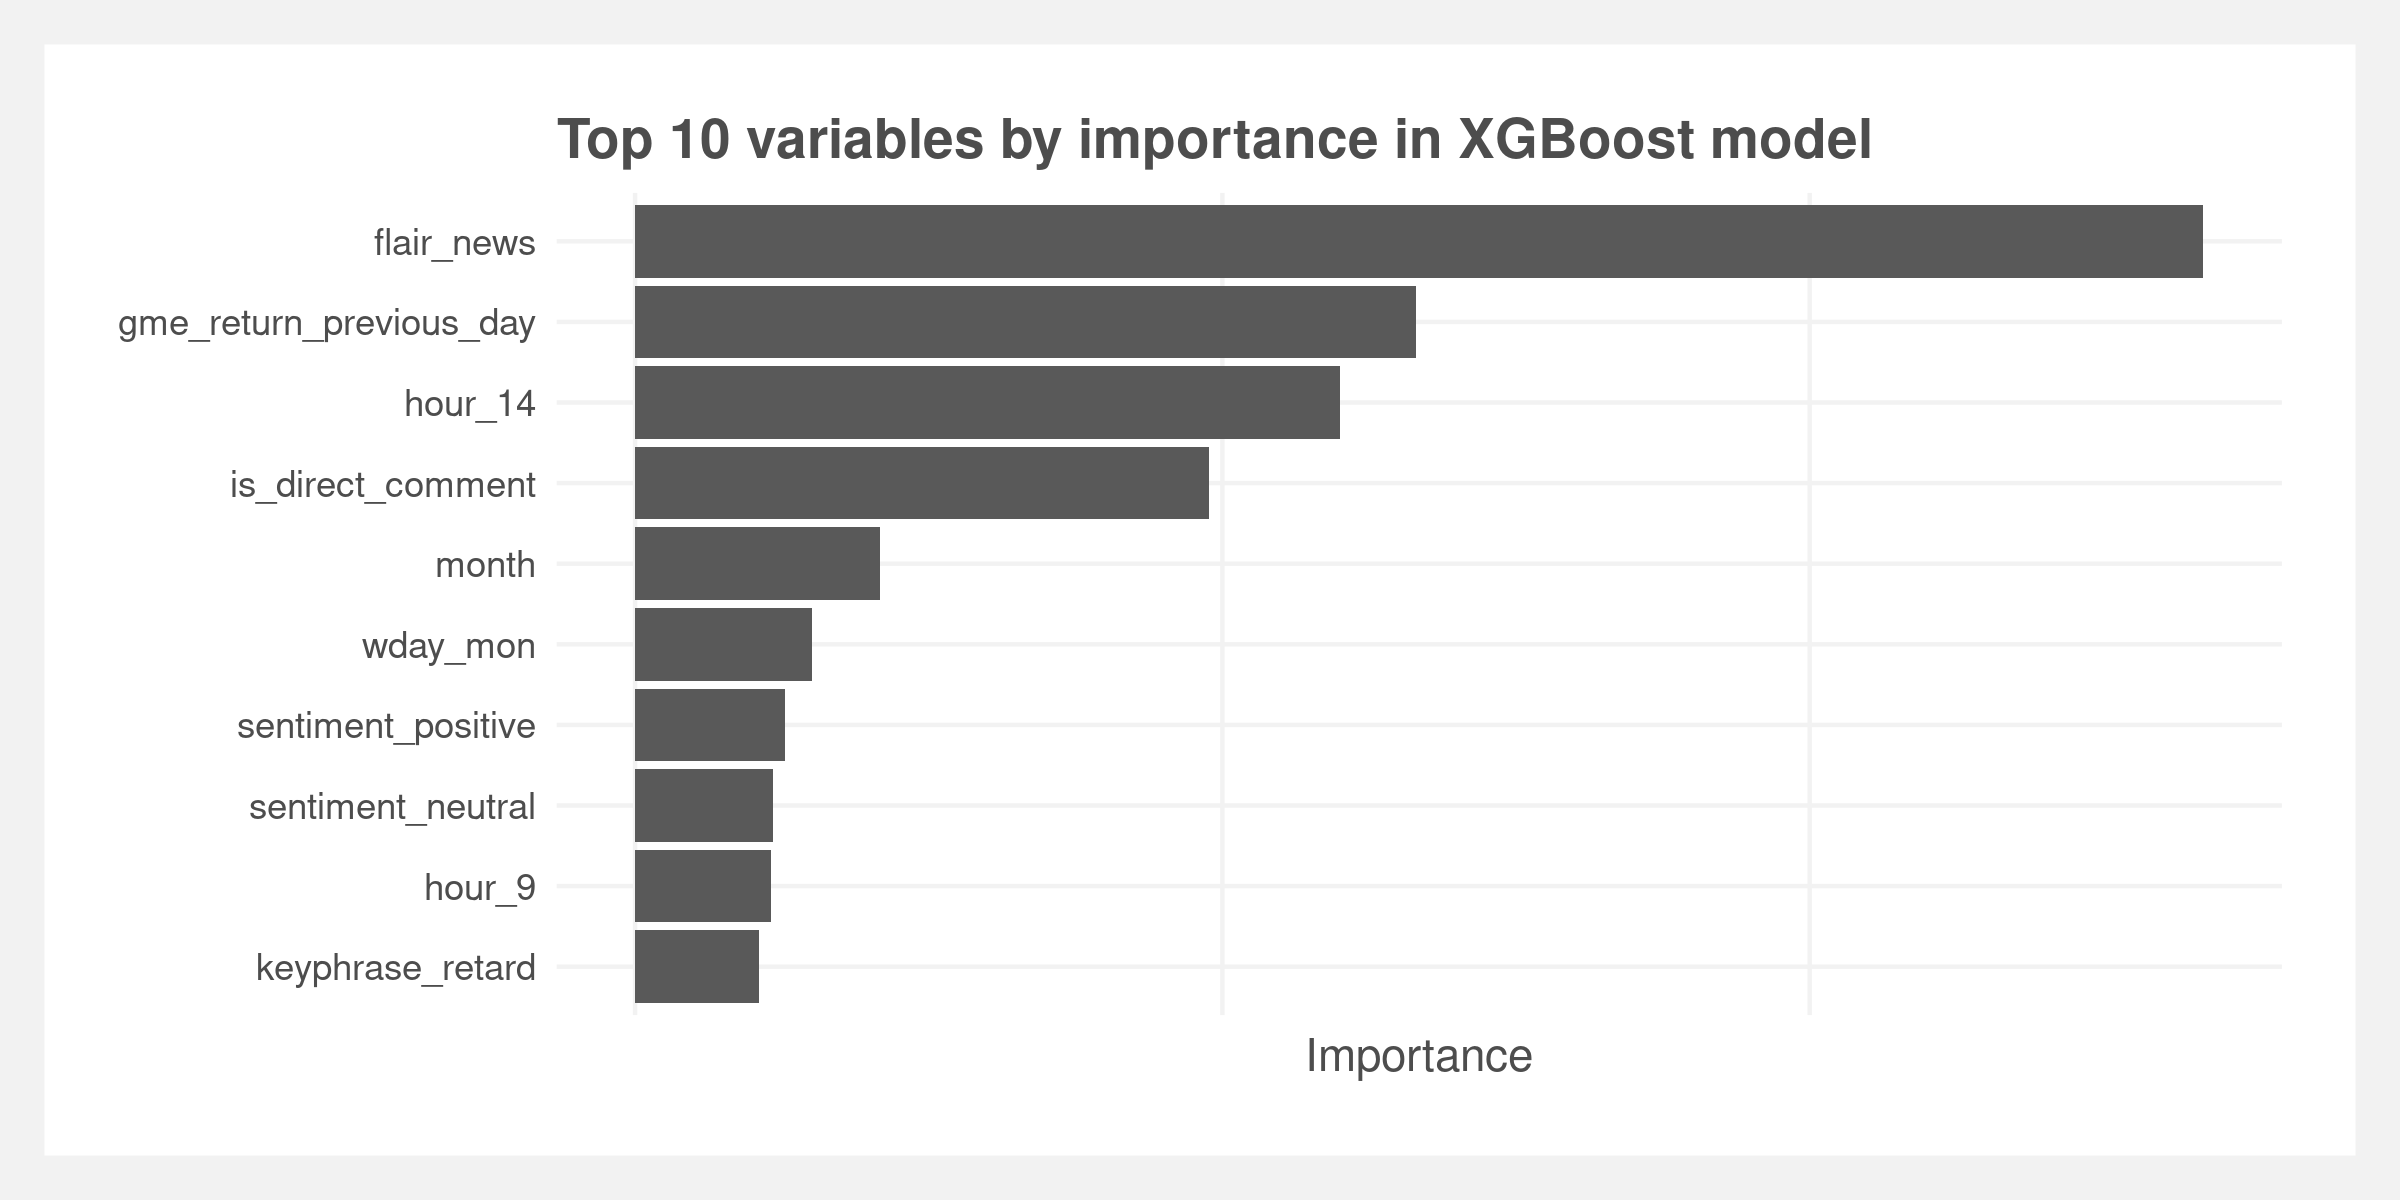
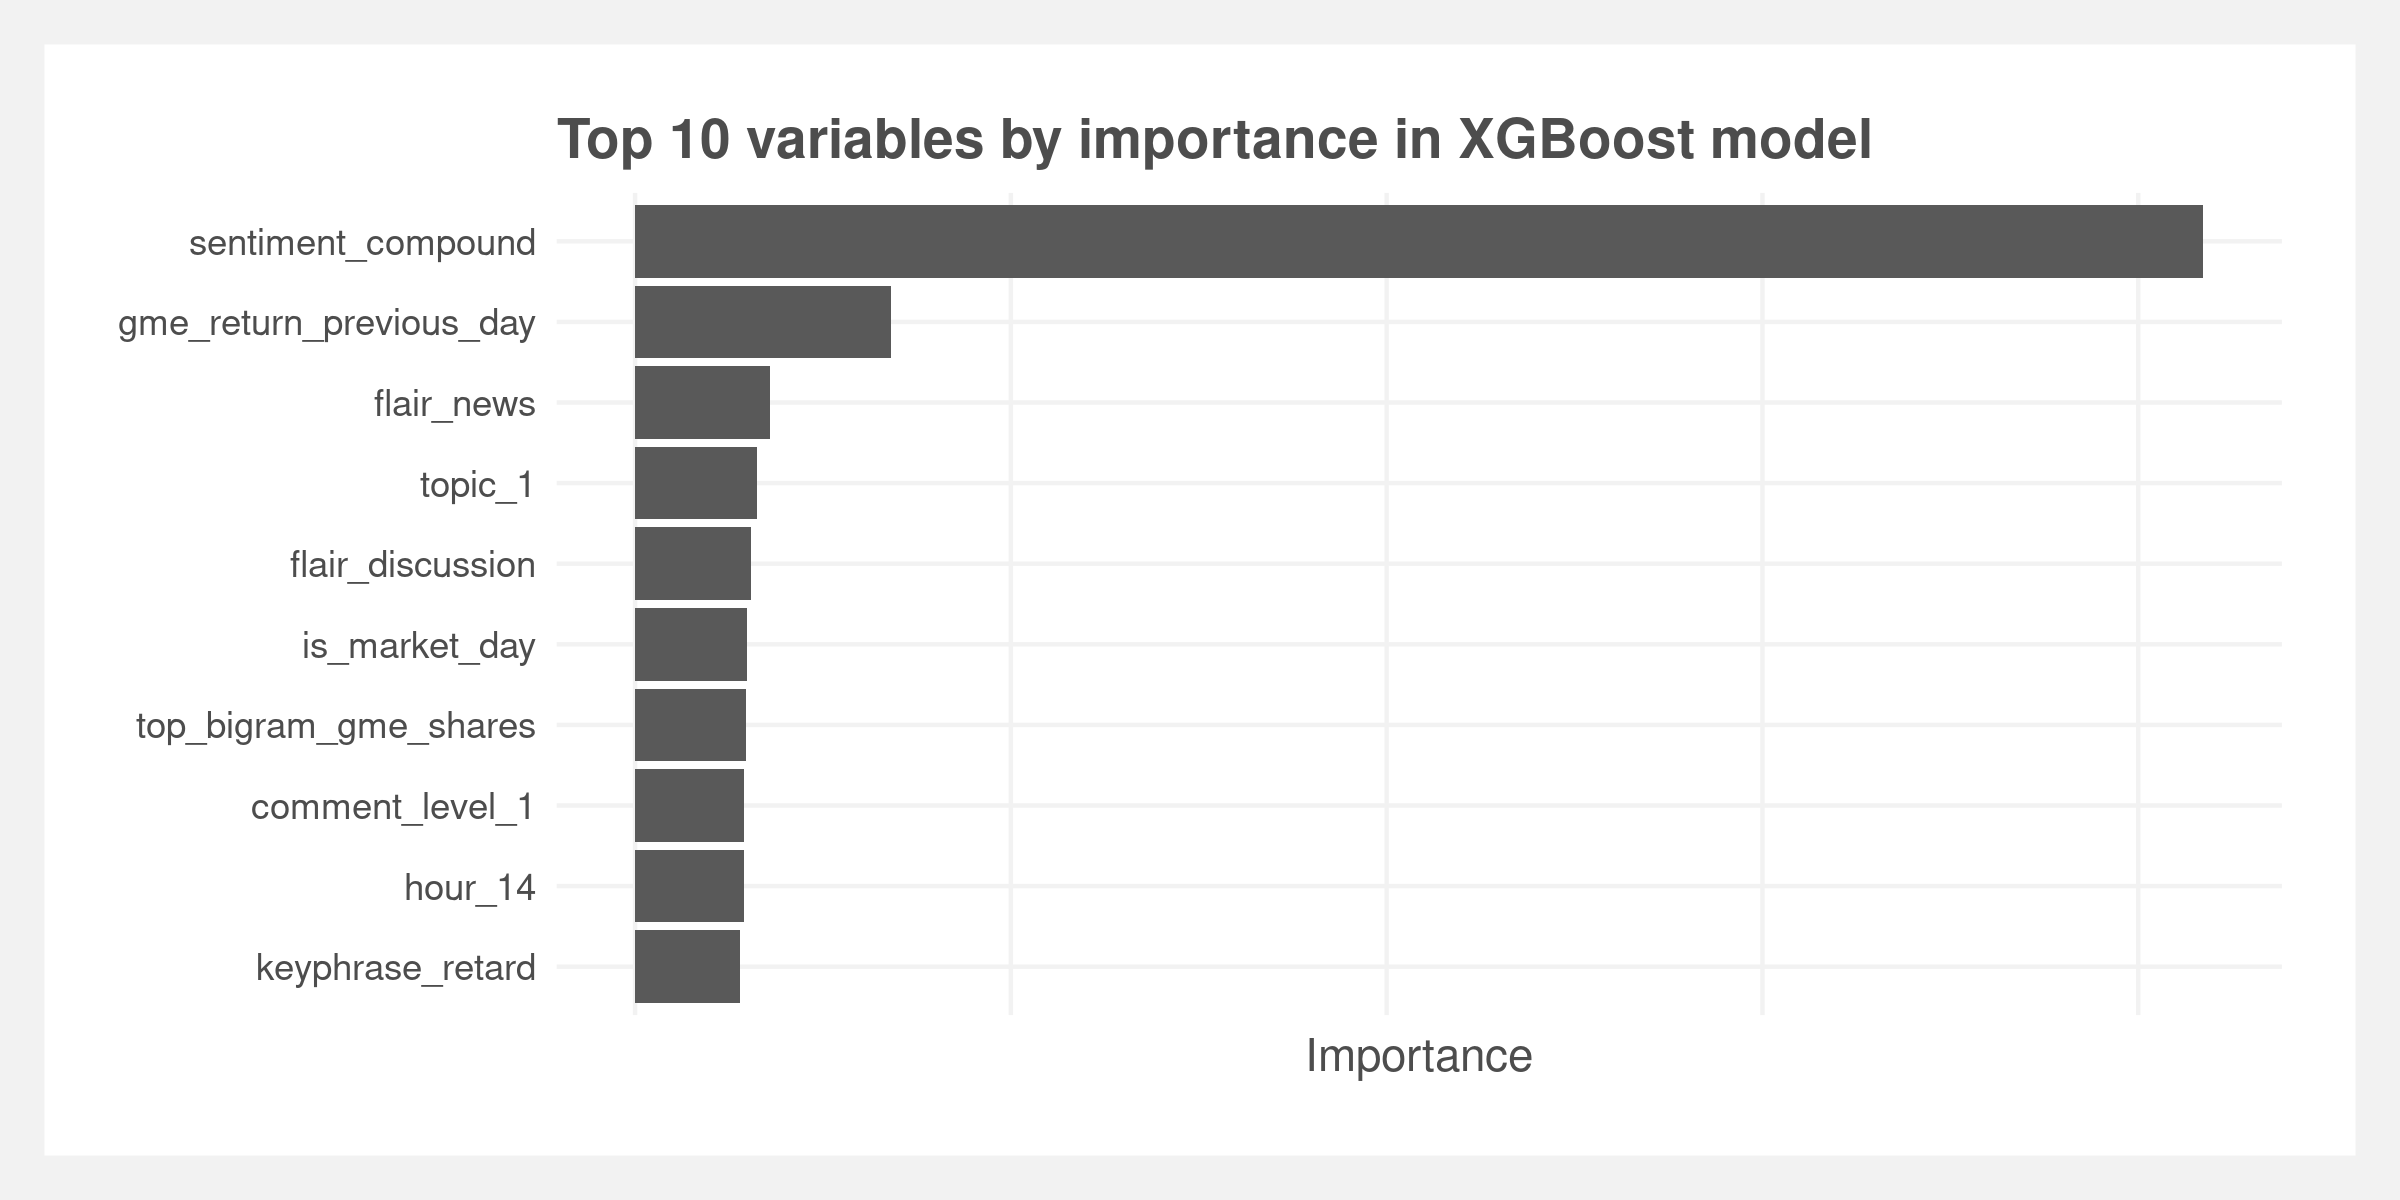
added comment hierarchy feature; reran models

diff --git a/README.md b/README.md
@@ -6,6 +6,11 @@ Final project for NYU Messy Data and Machine Learning class. Contains explicit l
 
 <br>
 <p align="center">
+<img src="analyses/plots/precision.png" width=80%>
+</p>
+
+<br>
+<p align="center">
 <img src="analyses/plots/lasso_features.png" width=80%>
 </p>
 
